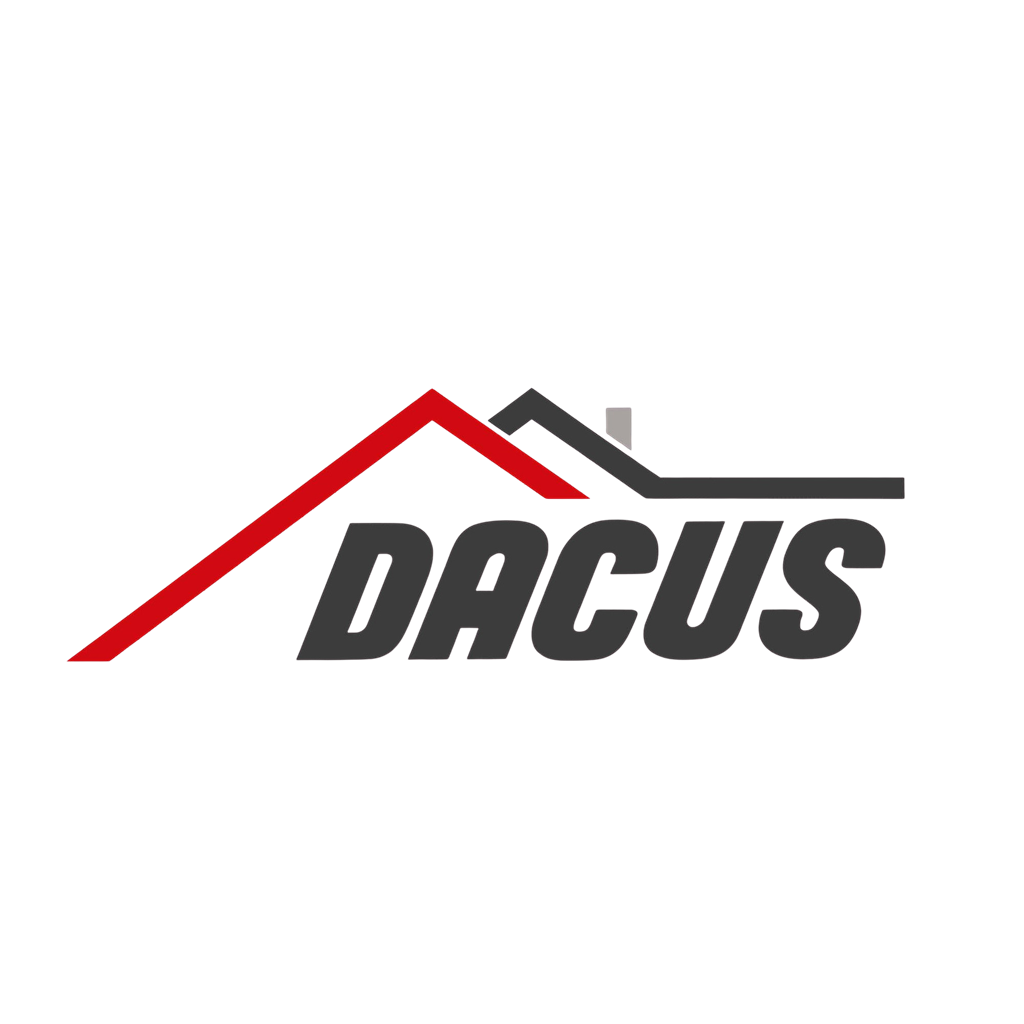
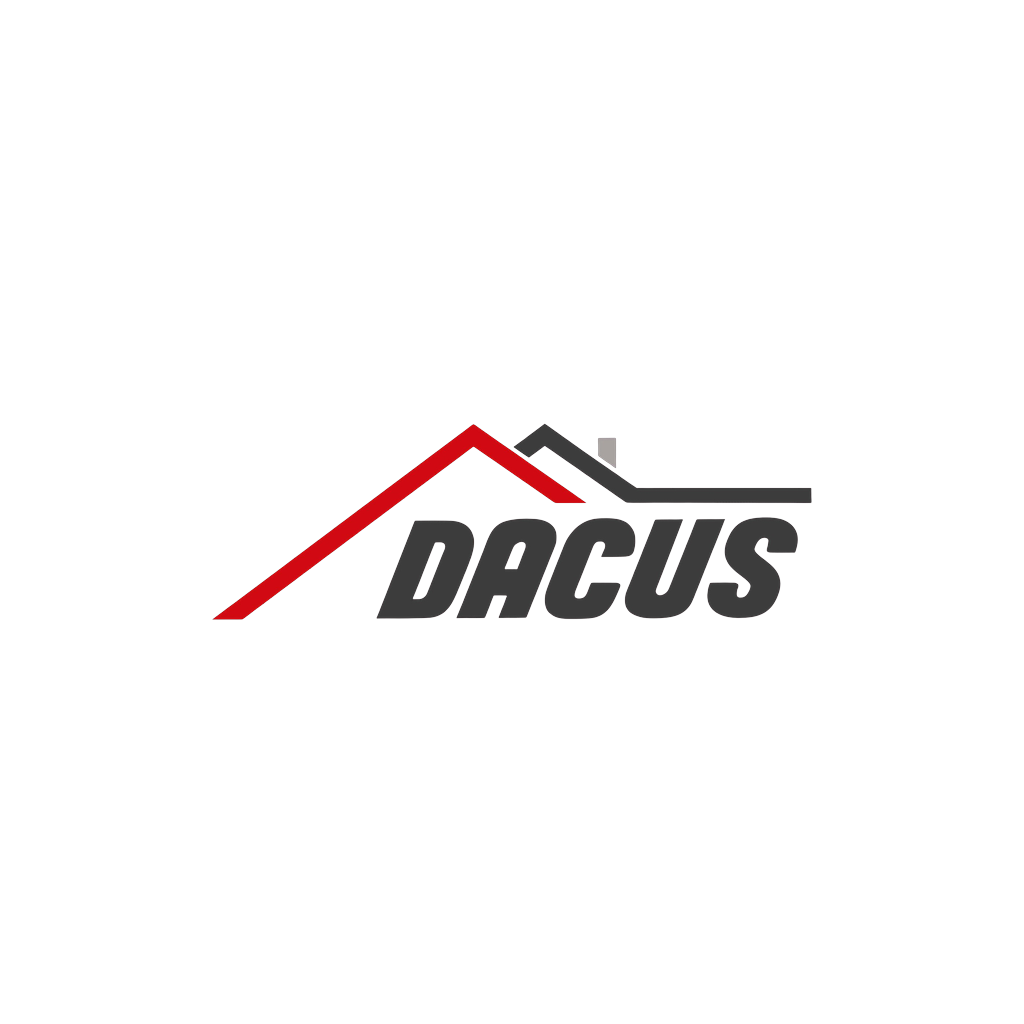
Store-ready assets and texts; analytics respect the consent switch
- Android adaptive icon with the logo inside the launcher safe zone (it was cut off by circle masks).
- App Store / Google Play screenshots (6.9" iPhone, Android phone) and the Play feature graphic,
  generated by release/make-store-assets.py from captures of the app.
- release/STORE-LISTING.md: Romanian store texts, privacy answers checked against the code.
- release/RELEASE.md: what is verified, and the remaining steps (backend deploy, device tests, store
  accounts, EAS build/submit).
- Add-to-cart analytics are sent only with "Statistici anonime" switched on.

Changed region(s): [[0.0625, 0.375, 0.9062, 0.6562]]

diff --git a/apps/mobile/src/state/AppProvider.tsx b/apps/mobile/src/state/AppProvider.tsx
@@ -481,12 +481,15 @@ function useAppState() {
       haptics.success();
       showToast('Adăugat în coș', { actionLabel: 'Vezi coșul', onAction: openCart });
     }
-    void sendAnalyticsEvents([
-      {
-        name: 'add_to_cart',
-        payload: { productId, variantId: resolvedVariantId ?? null, page: currentRouteName() ?? 'unknown' },
-      },
-    ]);
+    // Only with the "Statistici anonime" consent on (Setări → Confidențialitate).
+    if (effectiveAccountSettings.privacy.analyticsConsent.granted) {
+      void sendAnalyticsEvents([
+        {
+          name: 'add_to_cart',
+          payload: { productId, variantId: resolvedVariantId ?? null, page: currentRouteName() ?? 'unknown' },
+        },
+      ]);
+    }
   });
 
   const changeQuantity = useStableCallback((productId: string, variantId: string | undefined, delta: number) => {

diff --git a/release/make-store-assets.py b/release/make-store-assets.py
@@ -1,0 +1,123 @@
+"""Builds the App Store / Google Play screenshots and the Play feature graphic from app captures.
+
+Inputs:  release/store-assets/screens-src/*.png  (390x844 @3x captures of the app)
+Outputs: release/store-assets/ios-6.9/*.png      1320x2868 (iPhone 6.9")
+         release/store-assets/android-phone/*.png 1080x1920
+         release/store-assets/play-feature-graphic.png 1024x500
+Usage (repo root): python release/make-store-assets.py
+"""
+from pathlib import Path
+
+from PIL import Image, ImageDraw, ImageFilter, ImageFont
+
+ROOT = Path(__file__).resolve().parent.parent
+SRC = ROOT / 'release/store-assets/screens-src'
+OUT = ROOT / 'release/store-assets'
+FONTS = ROOT / 'node_modules/@expo-google-fonts/barlow'
+LOGO = ROOT / 'apps/mobile/assets/dacus-logo.png'
+
+RED = (210, 10, 17)
+INK = (20, 20, 20)
+PAPER = (244, 243, 241)
+WHITE = (255, 255, 255)
+
+# (capture, headline, subline, background)
+SLIDES = [
+    ('home', 'Tot pentru casă,\nîntr-o aplicație', 'Peste 17.000 de produse Dacus', PAPER),
+    ('search', 'Găsești orice,\ndin prima', 'Caută după nume, brand sau cod', INK),
+    ('departments', 'Totul, pe\ndepartamente', 'De la construcții la grădină', PAPER),
+    ('product-added', 'Un gest\nși e în coș', 'Prețuri și stoc actualizate', RED),
+    ('cart', 'Coș simplu,\nplată sigură', 'Plata pe pagina securizată a magazinului', PAPER),
+    ('loyalty', 'Puncte la\nfiecare comandă', '100 de puncte = 5 RON', INK),
+]
+
+
+def font(weight: str, size: int) -> ImageFont.FreeTypeFont:
+    return ImageFont.truetype(str(FONTS / weight / f'Barlow_{weight}.ttf'), size)
+
+
+def rounded(image: Image.Image, radius: int) -> Image.Image:
+    mask = Image.new('L', image.size, 0)
+    ImageDraw.Draw(mask).rounded_rectangle((0, 0, image.width - 1, image.height - 1), radius, fill=255)
+    out = image.convert('RGBA')
+    out.putalpha(mask)
+    return out
+
+
+def slide(capture: str, headline: str, subline: str, background, size: tuple[int, int]) -> Image.Image:
+    width, height = size
+    scale = width / 1320
+    canvas = Image.new('RGB', size, background)
+    draw = ImageDraw.Draw(canvas)
+    dark = background != PAPER
+    title_color = WHITE if dark else INK
+    sub_color = (220, 220, 222) if dark else (90, 90, 95)
+
+    # Headline block
+    title_font = font('800ExtraBold', round(118 * scale))
+    sub_font = font('500Medium', round(52 * scale))
+    y = round(190 * scale)
+    for line in headline.split('\n'):
+        w = draw.textlength(line, font=title_font)
+        draw.text(((width - w) / 2, y), line, font=title_font, fill=title_color)
+        y += round(128 * scale)
+    y += round(24 * scale)
+    w = draw.textlength(subline, font=sub_font)
+    draw.text(((width - w) / 2, y), subline, font=sub_font, fill=sub_color)
+
+    # The app screen, framed and running off the bottom edge
+    shot = Image.open(SRC / f'{capture}.png').convert('RGB')
+    shot_w = round(width * 0.78)
+    shot_h = round(shot.height * shot_w / shot.width)
+    shot = rounded(shot.resize((shot_w, shot_h), Image.LANCZOS), round(70 * scale))
+    top = y + round(110 * scale)
+    left = (width - shot_w) // 2
+
+    shadow = Image.new('RGBA', size, (0, 0, 0, 0))
+    ImageDraw.Draw(shadow).rounded_rectangle(
+        (left, top + round(30 * scale), left + shot_w, top + shot_h), round(70 * scale), fill=(0, 0, 0, 110 if dark else 60)
+    )
+    shadow = shadow.filter(ImageFilter.GaussianBlur(round(40 * scale)))
+    canvas = Image.alpha_composite(canvas.convert('RGBA'), shadow)
+    border = round(10 * scale)
+    frame = Image.new('RGBA', (shot_w + border * 2, shot_h + border * 2), (0, 0, 0, 0))
+    ImageDraw.Draw(frame).rounded_rectangle(
+        (0, 0, frame.width - 1, frame.height - 1), round(80 * scale), fill=(28, 28, 30, 255) if not dark else (60, 60, 64, 255)
+    )
+    canvas.alpha_composite(frame, (left - border, top - border))
+    canvas.alpha_composite(shot, (left, top))
+    return canvas.convert('RGB')
+
+
+def feature_graphic() -> Image.Image:
+    width, height = 1024, 500
+    canvas = Image.new('RGB', (width, height), WHITE)
+    draw = ImageDraw.Draw(canvas)
+    # Red band on the right with a phone screen peeking in
+    draw.rectangle((620, 0, width, height), fill=RED)
+    logo = Image.open(LOGO).convert('RGBA')
+    logo = logo.crop(logo.getchannel('A').getbbox())
+    logo_w = 470
+    logo = logo.resize((logo_w, round(logo.height * logo_w / logo.width)), Image.LANCZOS)
+    canvas.paste(logo, (60, 110), logo)
+    draw.text((64, 300), 'Tot pentru casă,', font=font('800ExtraBold', 50), fill=INK)
+    draw.text((64, 356), 'într-o aplicație.', font=font('800ExtraBold', 50), fill=INK)
+    shot = Image.open(SRC / 'home.png').convert('RGB')
+    shot_w = 300
+    shot = rounded(shot.resize((shot_w, round(shot.height * shot_w / shot.width)), Image.LANCZOS), 36)
+    canvas.paste(shot, (680, 60), shot)
+    return canvas
+
+
+def main() -> None:
+    for folder, size in (('ios-6.9', (1320, 2868)), ('android-phone', (1080, 1920))):
+        target = OUT / folder
+        target.mkdir(parents=True, exist_ok=True)
+        for index, (capture, headline, subline, background) in enumerate(SLIDES, start=1):
+            slide(capture, headline, subline, background, size).save(target / f'{index:02d}-{capture}.png', optimize=True)
+    feature_graphic().save(OUT / 'play-feature-graphic.png', optimize=True)
+    print('wrote', OUT)
+
+
+if __name__ == '__main__':
+    main()

diff --git a/release/STORE-LISTING.md b/release/STORE-LISTING.md
@@ -1,0 +1,100 @@
+# Store listing — Dacus.ro
+
+Ready-to-paste texts for App Store Connect and Google Play Console (Romanian, primary language).
+
+## Identity
+
+| Field | Value |
+| --- | --- |
+| App name | Dacus.ro |
+| Bundle ID / package | `ro.dacus.mobile` (iOS and Android) |
+| Category | Shopping (both stores) |
+| Price | Free, no in-app purchases (payments happen on the store's Shopify checkout) |
+| Support URL | https://dacus.ro/pages/contact |
+| Marketing URL | https://dacus.ro |
+| Privacy policy | https://dacus.ro/policies/privacy-policy |
+| Terms | https://dacus.ro/policies/terms-of-service |
+
+## App Store
+
+**Subtitle** (max 30): `Tot pentru casă și grădină`
+
+**Promotional text** (max 170):
+`Peste 17.000 de produse pentru casă, grădină și renovare. Cauți, adaugi în coș și plătești în siguranță, iar la fiecare comandă aduni puncte de fidelitate.`
+
+**Keywords** (max 100, comma separated, no spaces):
+`dacus,bricolaj,constructii,renovare,gradina,scule,electrice,iluminat,baie,mobilier,electrocasnice`
+
+**Description:**
+
+```
+Aplicația Dacus aduce în buzunarul tău peste 17.000 de produse pentru casă, grădină și renovare.
+
+GĂSEȘTI ORICE, DIN PRIMA
+Caută după nume, brand sau cod de produs. Rezultatele apar pe măsură ce scrii, iar căutările frecvente le poți salva.
+
+TOTUL, PE DEPARTAMENTE
+Construcții și renovare, electrice și iluminat, casă și grădină, baie, bucătărie, mobilier, scule și multe altele — fiecare cu subcategoriile lui, la o atingere distanță.
+
+COȘ SIMPLU, PLATĂ SIGURĂ
+Adaugi produsele în coș, vezi totalul imediat și finalizezi comanda pe pagina securizată a magazinului. Livrare prin curier în 24–48h în majoritatea localităților.
+
+PUNCTE LA FIECARE COMANDĂ
+1 RON cheltuit înseamnă 1 punct. 100 de puncte devin un voucher de 5 RON, pe care îl folosești online sau în magazin.
+
+ȘI ÎNCĂ
+• Favorite și liste de cumpărături salvate
+• Notificări când un produs revine în stoc
+• Istoricul comenzilor și adresele de livrare la un loc
+• Autentificare rapidă cu Face ID / amprentă
+```
+
+**What's New (1.0.0):** `Prima versiune a aplicației Dacus.`
+
+**Age rating:** 4+ (no objectionable content; answer "None" to every content question).
+
+**Sign-in for App Review:** the app works without an account (browse, cart, checkout as guest). Account
+features need a login, so give Apple a review account in App Store Connect → App Review Information
+(create it in the app before submitting; don't reuse a personal account).
+
+## Google Play
+
+**Short description** (max 80): `Peste 17.000 de produse pentru casă, grădină și renovare. Puncte la fiecare comandă.`
+
+**Full description:** same as the App Store description above.
+
+**Content rating:** complete the IARC questionnaire as a shopping app with no user-generated content → expected "3+ / PEGI 3".
+
+**Target audience:** 18+ (shopping with payments).
+
+## Privacy answers
+
+What the app and its backend actually handle (checked against the code, Oct 2026):
+
+| Data | Collected | Purpose | Linked to the user |
+| --- | --- | --- | --- |
+| Name, email | Yes, when an account is created | Account | Yes |
+| Shipping address, phone | Yes, when the user saves an address | Delivery | Yes |
+| Purchase history | Yes (orders placed from the app) | Order history, loyalty points | Yes |
+| Product interactions (views, searches) | Only with the "Statistici anonime" consent on | Analytics, recommendations | Yes, when logged in |
+| Device ID / push token | Yes, if notifications are allowed | Push notifications, session list | Yes |
+| Payment card data | **No** — entered on Shopify's checkout, never in the app | — | — |
+| Location, photos, contacts, camera | **No** | — | — |
+
+- **App Store "App Privacy":** declare Contact Info (name, email, address, phone), Purchases, Identifiers
+  (user ID, device ID) and Usage Data (product interaction). None used for tracking → no App Tracking
+  Transparency prompt needed.
+- **Google Play "Data safety":** same categories; data encrypted in transit (HTTPS); users can delete their
+  account in the app (Setări → Șterge contul) — give the policy URL above as the deletion info page.
+- **Encryption:** `ITSAppUsesNonExemptEncryption` is already `false` (HTTPS only).
+
+## Assets
+
+Generated by `python release/make-store-assets.py` into `release/store-assets/`:
+
+- `ios-6.9/` — 6 screenshots, 1320×2868 (App Store 6.9" slot; App Store Connect scales them for smaller iPhones)
+- `android-phone/` — 6 screenshots, 1080×1920
+- `play-feature-graphic.png` — 1024×500 (required by Google Play)
+- App icon: `apps/mobile/assets/icon.png` (1024×1024, no transparency — App Store requirement met)
+- Android adaptive icon: `apps/mobile/assets/adaptive-icon.png` (logo inside the 66% safe zone)
+- Optional preview video: the 15-second trailers in `D:\TRAILERS` (Google Play takes a YouTube link)

diff --git a/release/RELEASE.md b/release/RELEASE.md
@@ -1,0 +1,79 @@
+# Releasing Dacus.ro 1.0.0
+
+Status as of 14 Oct 2026. Everything that can be checked from a computer passes; what's left needs a
+phone, the store accounts, or a production deploy.
+
+## Done and verified
+
+- `npm run verify:mobile:release`: typecheck, 45 unit tests, iOS + Android bundles, Expo Doctor 21/21.
+- API: 16 tests + an end-to-end login test against the Firebase Auth emulator; lint clean.
+- `node scripts/smoke-api.mjs`: the live API answers, guest checkout returns a working Shopify checkout
+  link (opened in a browser: the Dacus checkout page with the right product and price), account
+  endpoints refuse anonymous requests.
+- Web preview: browse, search, departments, add to cart, change quantity, remove + undo, guest checkout.
+- Store config: permissions trimmed to what the app uses (notifications, Face ID, network), Android
+  adaptive icon inside the safe zone, privacy/terms links and account deletion in Setări.
+- Store texts, privacy answers and screenshots: `release/STORE-LISTING.md`, `release/store-assets/`.
+
+## 1. Deploy the backend (required before release)
+
+The app's account features depend on server fixes that are committed but **not deployed yet**
+(profiles for accounts created in the app, account deletion, Firestore with the runtime credentials).
+
+```bash
+npm run firebase:deploy
+```
+
+Then check the live API:
+
+```bash
+curl https://europe-west1-dacus-b40f9.cloudfunctions.net/api/health
+```
+
+It must report `"storage":"firestore"` and `"auth":"firebase"`. If it says `memory`, accounts, carts and
+orders are not being saved: set `DACUS_FIREBASE_ENABLED=true` (and the service-account keys) in the
+functions environment, or check that the function's service account has Firestore access.
+
+Finally `node scripts/smoke-api.mjs` should print `all passing`.
+
+## 2. Test on real phones (needs you)
+
+Install a build on one iPhone and one Android phone (`eas build --profile preview --platform all`),
+then walk through `plans/mobile-release-checklist.md`. The flows only a phone can prove:
+
+- [ ] Create an account, log out, log in again; close and reopen the app (still logged in)
+- [ ] Add an address; cart survives a restart; place an order with a real card (or a 100% discount code)
+- [ ] After paying, the app says "Comanda a fost plasată" and the cart is empty; after backing out of the
+      payment page, the products are still in the cart
+- [ ] Orders list shows the order; loyalty points appear after the order is fulfilled
+- [ ] Push notification permission prompt appears once; a test push arrives
+- [ ] Face ID / fingerprint login after enabling it in Setări
+- [ ] Setări → Șterge contul removes the account (log in again fails)
+
+## 3. Store accounts (needs you)
+
+- Apple Developer Program (company account for "Dacus") and an App Store Connect app with bundle ID
+  `ro.dacus.mobile`.
+- Google Play Console developer account and an app with package `ro.dacus.mobile`.
+- A review/test account for Apple App Review (create it in the app).
+
+## 4. Build and submit
+
+```bash
+eas build --profile production --platform all
+eas submit --profile production --platform ios
+eas submit --profile production --platform android
+```
+
+The first iOS build asks for your Apple ID to create certificates; the first Android build creates the
+upload keystore on EAS (keep it — every later update must be signed with it). `eas.json` →
+`submit.production` can hold the App Store Connect app id and the Play service-account key so later
+submits run without prompts.
+
+## Decisions for the business
+
+- **Analytics consent default.** "Statistici anonime" starts switched on. Under GDPR, analytics that are
+  linked to a person usually need opt-in. The app now respects the switch; whether it should start off is
+  a legal call.
+- **Loyalty points** are computed by the app's backend from orders placed in the app. Points for in-store
+  or website orders need the POS / Shopify integration (`/loyalty/scan`, POS API keys) to be configured.
